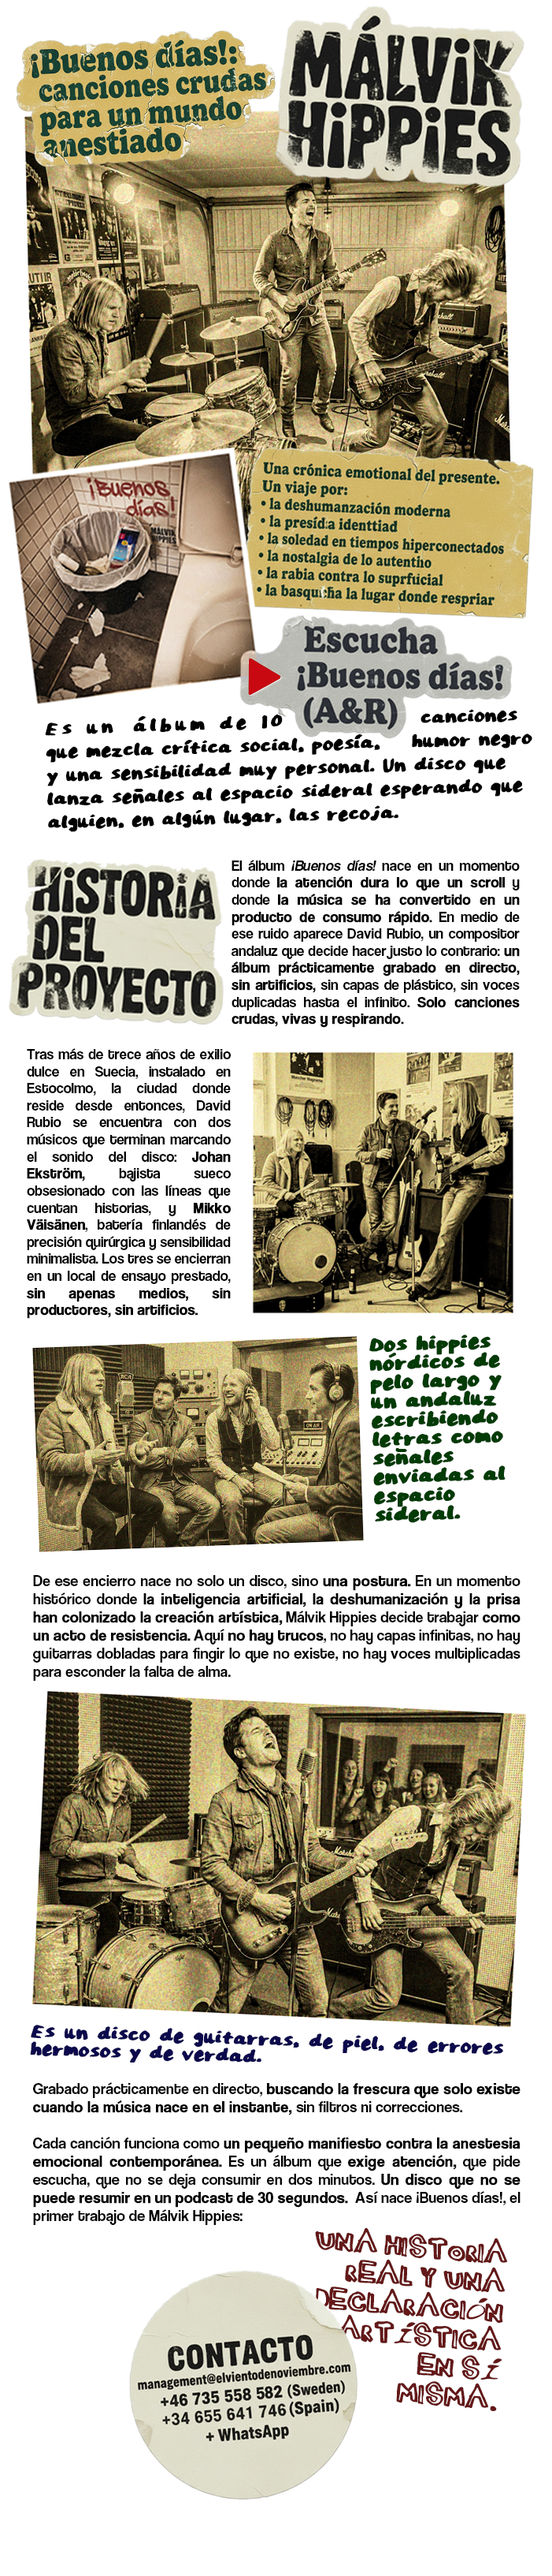
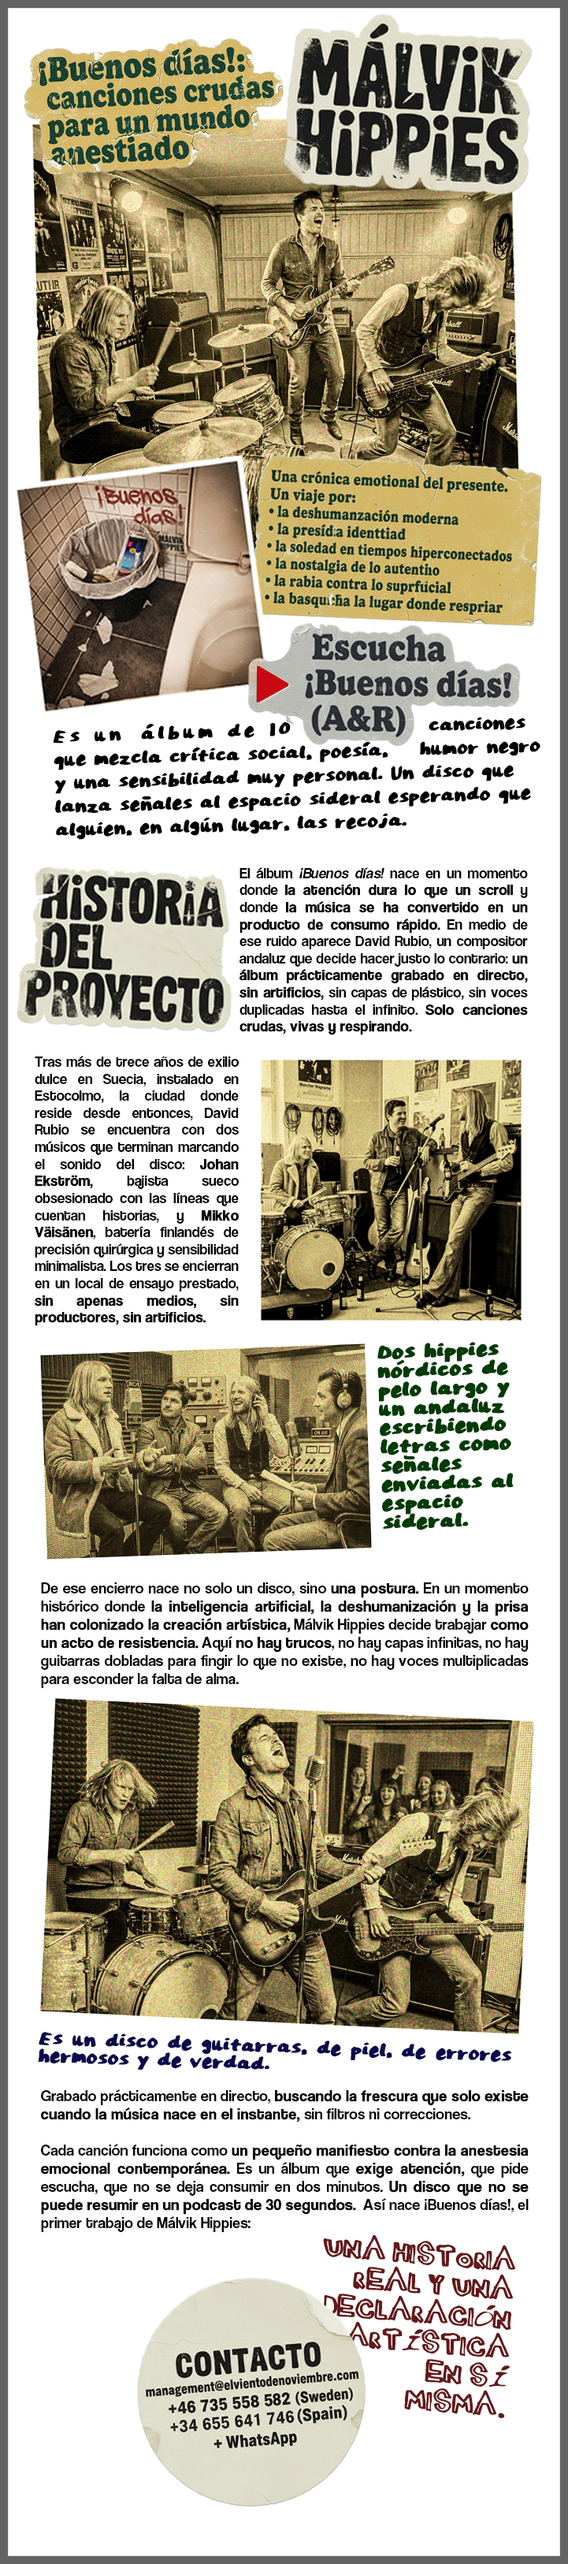
Add files via upload

diff --git a/malvik_hippies.html b/malvik_hippies.html
@@ -87,7 +87,7 @@ body {
 <p align="center">&nbsp;</p>
 <table width="100%" height="74%">
   <tr>
-    <td valign="middle" align="center"><div align="center"><img src="bio_malvik_2026.png" width="701" height="3266" />
+    <td valign="middle" align="center"><div align="center"><img src="bio_malvik_2026.png" width="721" height="3252" />
       <map name="MapMapMapMap" id="MapMapMapMap">
         <area shape="rect" coords="241,10,300,40" href="https://elvientodenoviembre.com/tienda-digi-usb-pack.html" />
         <area shape="rect" coords="292,39,300,41" href="#" />
